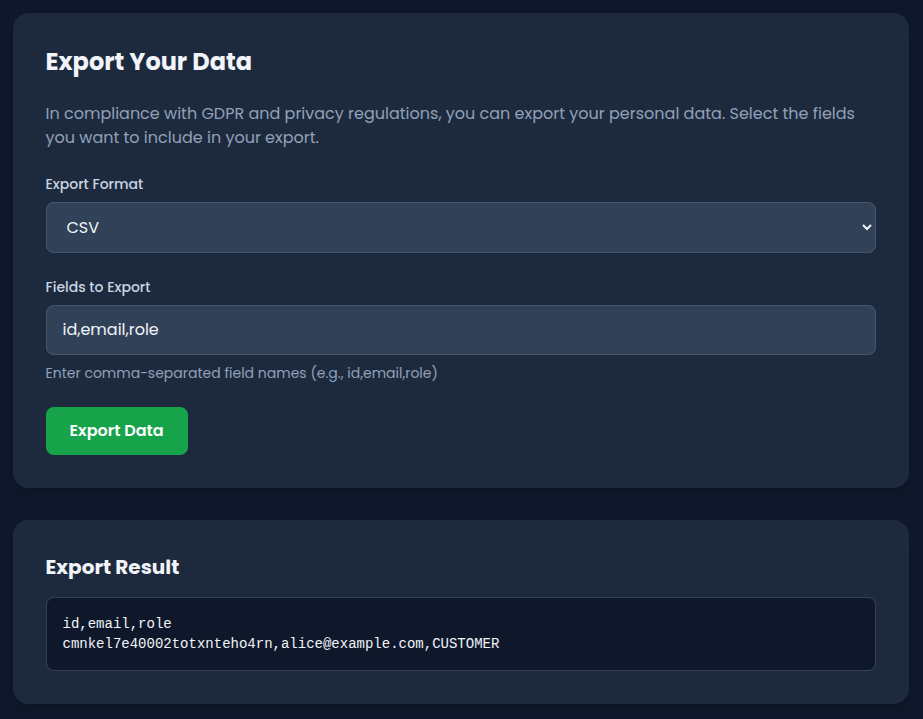
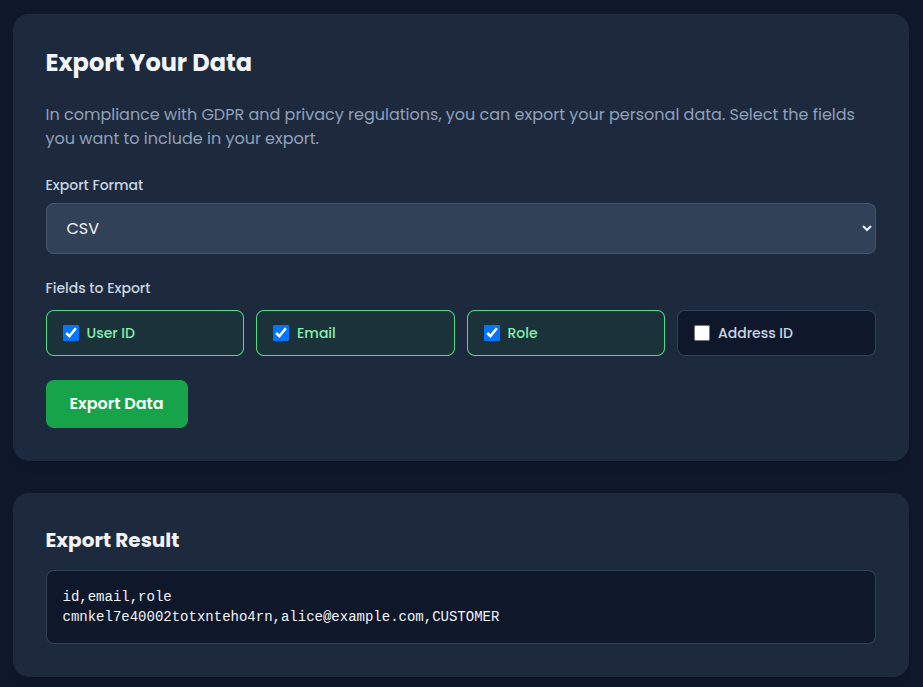
refactor: change export fields from comma-separated string to array with checkboxes

diff --git a/app/profile/ProfileClient.tsx b/app/profile/ProfileClient.tsx
@@ -47,7 +47,11 @@ export default function ProfileClient() {
   >("profile");
 
   const [exportFormat, setExportFormat] = useState("json");
-  const [exportFields, setExportFields] = useState("id,email,role");
+  const [selectedFields, setSelectedFields] = useState<string[]>([
+    "id",
+    "email",
+    "role",
+  ]);
   const [exportResult, setExportResult] = useState<ExportResponse | null>(null);
   const [isExporting, setIsExporting] = useState(false);
 
@@ -108,7 +112,7 @@ export default function ProfileClient() {
         },
         body: JSON.stringify({
           format: exportFormat,
-          fields: exportFields,
+          fields: selectedFields,
         }),
       });
 
@@ -586,29 +590,48 @@ export default function ProfileClient() {
                   </select>
                 </div>
 
-                <div>
-                  <label
-                    htmlFor="exportFields"
-                    className="block text-sm font-medium text-slate-700 dark:text-slate-300"
-                  >
+                <fieldset>
+                  <legend className="block text-sm font-medium text-slate-700 dark:text-slate-300">
                     Fields to Export
-                  </label>
-                  <input
-                    id="exportFields"
-                    type="text"
-                    value={exportFields}
-                    onChange={(e) => setExportFields(e.target.value)}
-                    placeholder="id,email,role"
-                    className="mt-2 block w-full rounded-lg border border-slate-300 bg-white px-4 py-3 text-slate-900 placeholder-slate-400 focus:border-primary-500 focus:outline-none focus:ring-2 focus:ring-primary-500 dark:border-slate-600 dark:bg-slate-700 dark:text-slate-100 dark:placeholder-slate-500"
-                  />
-                  <p className="mt-2 text-sm text-slate-500 dark:text-slate-400">
-                    Enter comma-separated field names (e.g., id,email,role)
-                  </p>
-                </div>
+                  </legend>
+                  <div className="mt-3 grid grid-cols-2 gap-3 sm:grid-cols-4">
+                    {[
+                      { value: "id", label: "User ID" },
+                      { value: "email", label: "Email" },
+                      { value: "role", label: "Role" },
+                      { value: "addressId", label: "Address ID" },
+                    ].map((field) => (
+                      <label
+                        key={field.value}
+                        className={`flex cursor-pointer items-center gap-2 rounded-lg border px-4 py-3 transition-colors ${
+                          selectedFields.includes(field.value)
+                            ? "border-primary-500 bg-primary-50 text-primary-700 dark:border-primary-400 dark:bg-primary-900/20 dark:text-primary-300"
+                            : "border-slate-200 bg-slate-50 text-slate-700 hover:border-slate-300 dark:border-slate-700 dark:bg-slate-900 dark:text-slate-300 dark:hover:border-slate-600"
+                        }`}
+                      >
+                        <input
+                          type="checkbox"
+                          checked={selectedFields.includes(field.value)}
+                          onChange={() =>
+                            setSelectedFields((prev) =>
+                              prev.includes(field.value)
+                                ? prev.filter((f) => f !== field.value)
+                                : [...prev, field.value]
+                            )
+                          }
+                          className="h-4 w-4 rounded border-slate-300 text-primary-600 focus:ring-primary-500 dark:border-slate-600"
+                        />
+                        <span className="text-sm font-medium">
+                          {field.label}
+                        </span>
+                      </label>
+                    ))}
+                  </div>
+                </fieldset>
 
                 <button
                   type="submit"
-                  disabled={isExporting}
+                  disabled={isExporting || selectedFields.length === 0}
                   className="cursor-pointer rounded-lg bg-primary-600 px-6 py-3 font-semibold text-white transition-colors hover:bg-primary-700 focus:outline-none focus:ring-2 focus:ring-primary-500 focus:ring-offset-2 disabled:cursor-not-allowed disabled:opacity-50"
                 >
                   {isExporting ? "Exporting..." : "Export Data"}

diff --git a/tests/api/information-disclosure-api-error.test.ts b/tests/api/information-disclosure-api-error.test.ts
@@ -35,7 +35,7 @@ describe("Information Disclosure via API Error", () => {
         {
           method: "POST",
           headers: authHeaders(token),
-          body: JSON.stringify({ format: "json", fields: "invalid_field" }),
+          body: JSON.stringify({ format: "json", fields: ["invalid_field"] }),
         }
       );
 
@@ -65,7 +65,7 @@ describe("Information Disclosure via API Error", () => {
         {
           method: "POST",
           headers: authHeaders(token),
-          body: JSON.stringify({ format: "json", fields: "email,role" }),
+          body: JSON.stringify({ format: "json", fields: ["email", "role"] }),
         }
       );
 
@@ -88,7 +88,7 @@ describe("Information Disclosure via API Error", () => {
       const { status, headers } = await apiRequest("/api/user/export", {
         method: "POST",
         headers: authHeaders(token),
-        body: JSON.stringify({ format: "csv", fields: "email,role" }),
+        body: JSON.stringify({ format: "csv", fields: ["email", "role"] }),
       });
 
       expect(status).toBe(200);
@@ -119,11 +119,34 @@ describe("Information Disclosure via API Error", () => {
     });
   });
 
+  describe("Fields must be an array", () => {
+    it("POST /api/user/export with comma-separated string returns 400", async () => {
+      const token = await loginOrFail(
+        TEST_USERS.alice.email,
+        TEST_USERS.alice.password
+      );
+
+      const { status, data } = await apiRequest<{ error?: string }>(
+        "/api/user/export",
+        {
+          method: "POST",
+          headers: authHeaders(token),
+          body: JSON.stringify({ format: "json", fields: "email,role" }),
+        }
+      );
+
+      expect(status).toBe(400);
+      expect((data as { error?: string }).error).toMatch(
+        /fields must be a non-empty array/i
+      );
+    });
+  });
+
   describe("Unauthenticated request is rejected", () => {
     it("POST /api/user/export without auth returns 401", async () => {
       const { status } = await apiRequest("/api/user/export", {
         method: "POST",
-        body: JSON.stringify({ format: "json", fields: "email,role" }),
+        body: JSON.stringify({ format: "json", fields: ["email", "role"] }),
       });
 
       expect(status).toBe(401);

diff --git a/prisma/seed.ts b/prisma/seed.ts
@@ -307,7 +307,7 @@ const flagHints: Record<string, string[]> = {
   "information-disclosure-api-error": [
     "Errors can be surprisingly chatty when you provoke them.",
     "Try sending unexpected or malformed data to API endpoints. Some error responses include verbose debug information that goes far beyond a simple error message.",
-    "Send a POST request to the user data export endpoint (/api/user/export) with an invalid field name. The error response includes system diagnostics containing feature flags, and the flag is right there.",
+    "The Data Export UI only offers checkboxes with valid fields, but the API doesn't enforce that. Send a POST request to /api/user/export with an invalid field name in the fields array. The error response includes system diagnostics containing feature flags.",
   ],
   "weak-jwt-secret": [
     "The token on your lips has a secret, and it's an open one.",

diff --git a/app/api/user/export/route.ts b/app/api/user/export/route.ts
@@ -76,17 +76,16 @@ export async function POST(request: NextRequest) {
       );
     }
 
-    const requestedFields = fields
-      .split(",")
-      .map((f: string) => f.trim())
-      .filter((f: string) => f.length > 0);
-
-    if (requestedFields.length === 0) {
+    if (!Array.isArray(fields) || fields.length === 0) {
       return NextResponse.json(
-        { error: "No valid fields specified" },
+        { error: "Fields must be a non-empty array" },
         { status: 400 }
       );
     }
+
+    const requestedFields = fields
+      .map((f: string) => String(f).trim())
+      .filter((f: string) => f.length > 0);
 
     const invalidFields = requestedFields.filter(
       (f: string) => !ALLOWED_USER_FIELDS.includes(f)

diff --git a/docs/src/data/blog/information-disclosure-api-error.md b/docs/src/data/blog/information-disclosure-api-error.md
@@ -14,7 +14,7 @@ tags:
 description: A data export endpoint dumps system diagnostics when it hits an invalid field. Feed it garbage, read the debug output, grab the flag.
 ---
 
-A data export feature lets you pick which profile fields to download. Send it a field name it doesn't recognize, and instead of a clean error, it dumps full system diagnostics -- including internal feature flags. That's where the flag is. You'll send a bad field name and read what comes back.
+A data export feature lets you pick which profile fields to download. The UI only offers valid fields through checkboxes, so everything looks locked down. But the API behind it accepts arbitrary field names -- send it one it doesn't recognize, and instead of a clean error, it dumps full system diagnostics including internal feature flags. That's where the flag is. You'll bypass the frontend, hit the endpoint directly, and read what comes back.
 
 ## Table of contents
 
@@ -36,20 +36,20 @@ The app runs at `http://localhost:3000`.
 
 ## What you're targeting
 
-The app has a profile page at `/profile` with a **Data Export** tab. It's meant to let users download their own data in JSON or CSV -- pick the fields you want (`id`, `email`, `role`...), hit "Export Data", and get a file back.
+The app has a profile page at `/profile` with a **Data Export** tab. It lets users download their own data in JSON or CSV by selecting fields through checkboxes (`User ID`, `Email`, `Role`, `Address ID`) and clicking "Export Data".
 
 ![Export Feature](../../assets/images/information-disclosure-api-error/export-feature.png)
 
-The endpoint behind it is `POST /api/user/export`. It accepts a JSON body with two parameters:
+The UI looks safe -- you can only pick from a fixed set of valid fields, so there's no way to submit an invalid one through the browser. But that's just client-side validation. The endpoint behind it is `POST /api/user/export`, and it accepts a JSON body with two parameters:
 
 ```json
 {
   "format": "json",
-  "fields": "id,email,role"
+  "fields": ["id", "email", "role"]
 }
 ```
 
-The `fields` value is a comma-separated list. The API checks each field against an allowlist. Valid fields? You get your data back. Invalid fields? The API throws an error -- and that error says way too much.
+The `fields` value is an array of strings. The API checks each field against an allowlist. Valid fields? You get your data back. Invalid fields? The API throws an error -- and that error says way too much.
 
 ## Step-by-step exploitation
 
@@ -68,15 +68,23 @@ curl -c cookies.txt -X POST http://localhost:3000/api/auth/login \
   -d '{"email":"alice@example.com","password":"iloveduck"}'
 ```
 
-### 2. Navigate to the Data Export tab
+### 2. Explore the Data Export tab
 
-Go to `/profile` and click the **Data Export** tab. You'll see a form with a format dropdown (JSON/CSV) and a text input pre-filled with `id,email,role`.
+Go to `/profile` and click the **Data Export** tab. You'll see a form with a format dropdown (JSON/CSV) and a set of checkboxes for selecting fields. Try it out -- everything works fine with the provided options, and the responses are clean.
 
-### 3. Send an invalid field
+Notice that you can't type anything custom. The frontend only sends valid field names. You won't find the vulnerability by clicking around in the browser.
 
-Replace the field list with something that doesn't exist. Type `invalid_field` in the "Fields to Export" input, keep the format as JSON, and click **Export Data**.
+### 3. Hit the API directly with an invalid field
 
-The API rejects the request -- but look at the error response displayed on the page. Way more than "invalid field." Scroll through the output and you'll see a full JSON dump that includes a `debug` object.
+The interesting part happens when you bypass the UI and call the endpoint yourself. Send a field name that doesn't exist:
+
+```bash
+curl -b cookies.txt -X POST http://localhost:3000/api/user/export \
+  -H "Content-Type: application/json" \
+  -d '{"format":"json","fields":["invalid_field"]}'
+```
+
+The API rejects the request with a 400 -- but the error response contains way more than "invalid field."
 
 ### 4. Read the debug payload
 
@@ -106,16 +114,6 @@ The error response looks like this:
 
 The flag is in `debug.systemDiagnostics.featureFlags`.
 
-### 5. The curl version
-
-If you prefer the terminal:
-
-```bash
-curl -b cookies.txt -X POST http://localhost:3000/api/user/export \
-  -H "Content-Type: application/json" \
-  -d '{"format":"json","fields":"invalid_field"}'
-```
-
 ## Capturing the flag
 
 The flag is:
@@ -124,7 +122,9 @@ The flag is:
 OSS{1nf0_d1scl0sur3_4p1_3rr0r}
 ```
 
-It shows up in the `featureFlags` field inside the `systemDiagnostics` object. Any request with at least one invalid field triggers it -- the API calls `getSystemDiagnostics()` and dumps everything into the response body. Any authenticated user can do this, no special privileges.
+It shows up in the `featureFlags` field inside the `systemDiagnostics` object. Any request with at least one invalid field triggers it -- the API calls `getSystemDiagnostics()` and dumps everything into the response body. Any authenticated user can do this, no special privileges needed.
+
+The key lesson: the frontend checkbox UI prevents invalid input in the browser, but the API itself has no such restriction. Client-side validation is a UX feature, not a security control. An attacker will always bypass the UI and talk to the API directly.
 
 ## Why this vulnerability exists
 
@@ -134,25 +134,31 @@ Look at what happens in `route.ts` when the API finds invalid fields:
 if (invalidFields.length > 0) {
   const diagnostics = await getSystemDiagnostics();
 
-  return NextResponse.json({
-    error: "Invalid field names in export request",
-    invalidFields: invalidFields,
-    allowedFields: ALLOWED_USER_FIELDS,
-    debug: {
-      message: "Export failed due to invalid field specification",
-      requestedFields: requestedFields,
-      systemDiagnostics: diagnostics,
+  return NextResponse.json(
+    {
+      error: "Invalid field names in export request",
+      invalidFields: invalidFields,
+      allowedFields: ALLOWED_USER_FIELDS,
+      debug: {
+        message: "Export failed due to invalid field specification",
+        requestedFields: requestedFields,
+        systemDiagnostics: diagnostics,
+      },
     },
-  }, { status: 400 });
+    { status: 400 }
+  );
 }
 ```
 
 The developer added a `debug` block to help during development, and it calls `getSystemDiagnostics()`. That function queries the database, pulls Node.js version info, environment variables, and reads feature flags from the database. All of that gets shipped to the client in the error response.
 
-Two assumptions failed here:
+The frontend was later hardened with checkboxes to prevent users from entering invalid fields. But since the server-side debug payload was never removed, anyone who calls the API directly can still trigger the leak.
 
-1. "Only valid requests will hit production." The debug payload was probably meant for local development, but it ships on every invalid-field error regardless of environment.
-2. "Error responses are harmless." Dumping diagnostics in a 400 response felt like a debugging convenience. It's an information leak.
+Three assumptions failed here:
+
+1. **"The UI prevents bad input, so the API is safe."** Client-side validation doesn't protect the server. An attacker doesn't need a browser -- curl, Postman, or a script will do.
+2. **"Only valid requests will hit production."** The debug payload was probably meant for local development, but it ships on every invalid-field error regardless of environment.
+3. **"Error responses are harmless."** Dumping diagnostics in a 400 response felt like a debugging convenience. It's an information leak.
 
 This falls under CWE-209 (error messages containing sensitive information) and CWE-200 (exposure of sensitive information to an unauthorized actor).
 
@@ -162,10 +168,13 @@ Strip the debug data from error responses. Error messages sent to users should c
 
 ```typescript
 if (invalidFields.length > 0) {
-  return NextResponse.json({
-    error: "Invalid fields specified",
-    allowedFields: ALLOWED_USER_FIELDS,
-  }, { status: 400 });
+  return NextResponse.json(
+    {
+      error: "Invalid fields specified",
+      allowedFields: ALLOWED_USER_FIELDS,
+    },
+    { status: 400 }
+  );
 }
 ```
 
@@ -200,8 +209,6 @@ if (process.env.NODE_ENV === "development") {
   // Still don't include system diagnostics
 }
 ```
-
-One more thing: `getSystemDiagnostics()` queries the `flag` table. Why does a diagnostics function need access to that? It shouldn't. Limit diagnostics to health checks -- is the DB up, what version is the app -- and leave sensitive tables alone.
 
 ## Wrapping up
 

diff --git a/content/vulnerabilities/information-disclosure-api-error.md b/content/vulnerabilities/information-disclosure-api-error.md
@@ -26,32 +26,24 @@ In this application, the user data export endpoint (`/api/user/export`) allows u
 To retrieve the flag `OSS{1nf0_d1scl0sur3_4p1_3rr0r}`, follow these steps:
 
 1. Log in to the application (e.g., as alice@example.com / iloveduck)
-2. Navigate to the Profile page (`/profile`)
-3. Click on the "Data Export" tab
-4. In the "Fields to Export" input, enter any invalid field name like `invalid_field`
-5. Click "Export Data"
-6. Observe the error response which includes debug information
-7. In the `systemDiagnostics.featureFlags` array, find the flag
+2. Navigate to the Profile page (`/profile`) and click on the "Data Export" tab
+3. Notice the form uses checkboxes with only valid fields -- you can't submit invalid input through the UI
+4. Bypass the frontend and call the API directly with an invalid field name
+5. Observe the error response which includes debug information
+6. In the `systemDiagnostics.featureFlags` field, find the flag
 
-**Using browser console:**
+**Using curl:**
 
-```javascript
-fetch("/api/user/export", {
-  method: "POST",
-  credentials: "include",
-  headers: { "Content-Type": "application/json" },
-  body: JSON.stringify({
-    format: "json",
-    fields: "invalid_field",
-  }),
-})
-  .then((r) => r.json())
-  .then((data) => {
-    console.log(
-      "All flags exposed:",
-      data.debug.systemDiagnostics.featureFlags
-    );
-  });
+```bash
+# First, log in and save cookies
+curl -c cookies.txt -X POST http://localhost:3000/api/auth/login \
+  -H "Content-Type: application/json" \
+  -d '{"email":"alice@example.com","password":"iloveduck"}'
+
+# Then hit the export endpoint with an invalid field
+curl -b cookies.txt -X POST http://localhost:3000/api/user/export \
+  -H "Content-Type: application/json" \
+  -d '{"format":"json","fields":["invalid_field"]}'
 ```
 
 ### Secure Implementation
